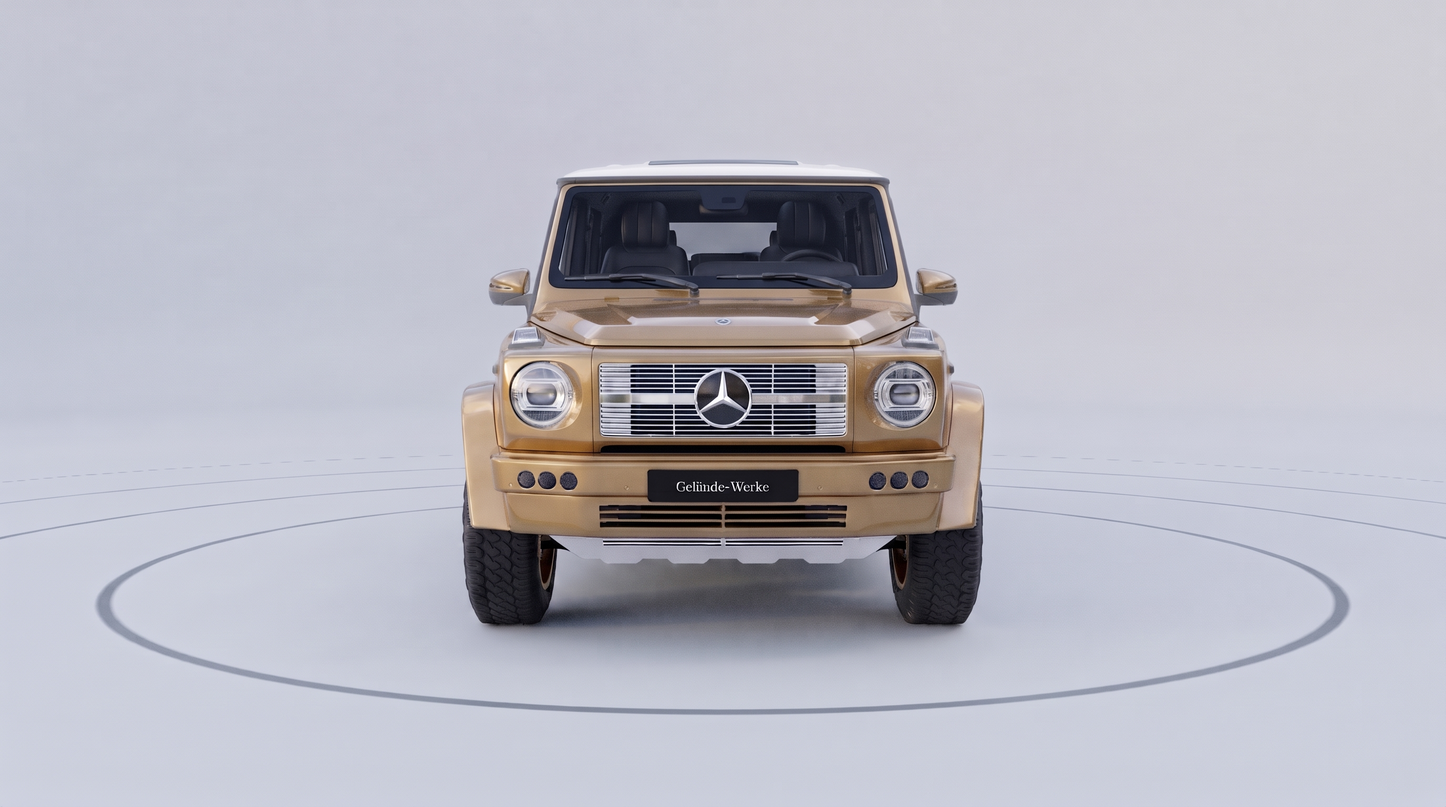
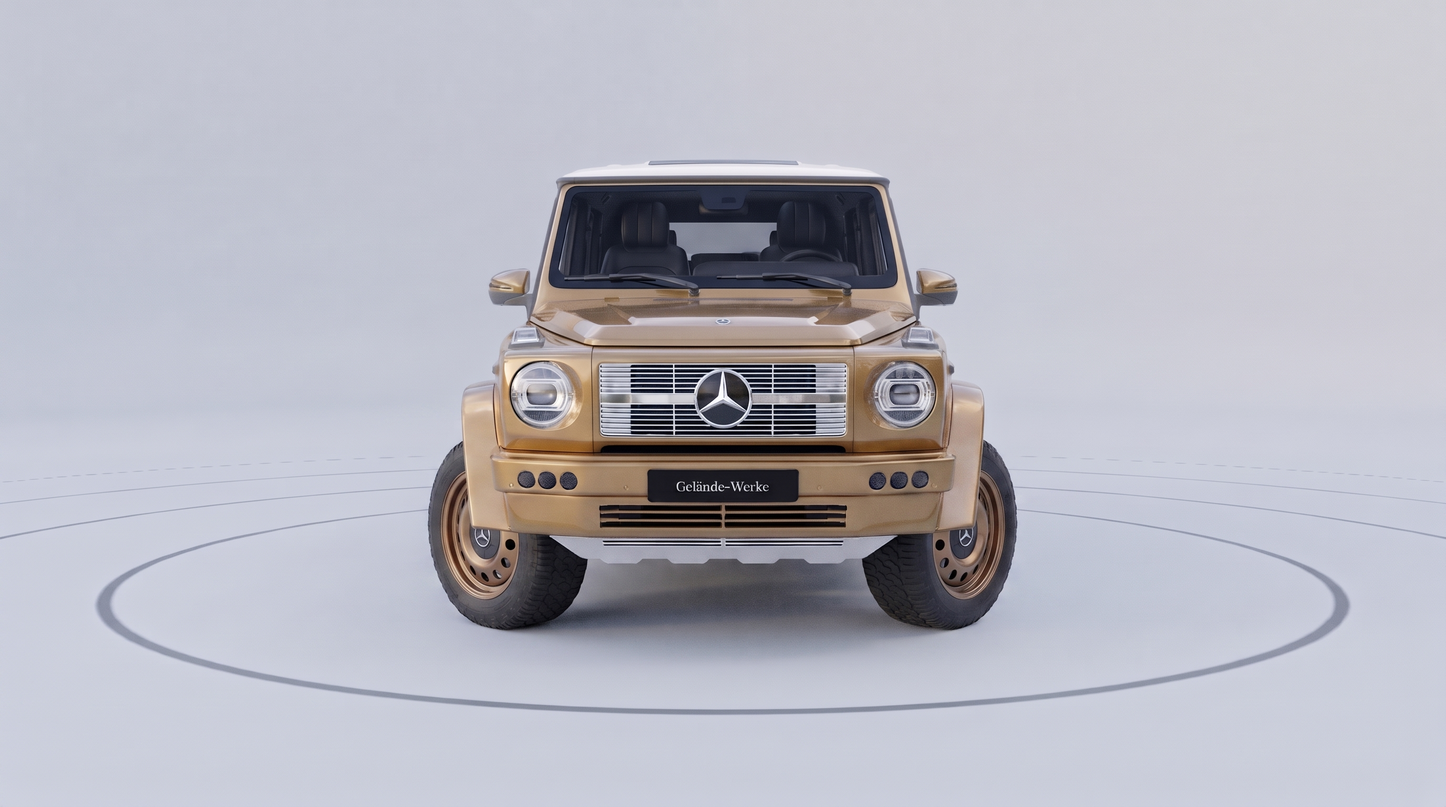
Regenerate Sahara, Rosso, and Bronze stills with correct RETRO bronze rims.
Tighter Gemini prompts keep the classic hole size and spacing; bump view still cache revision for browsers.

diff --git a/src/config/nature-scenes.ts b/src/config/nature-scenes.ts
@@ -23,7 +23,7 @@ export function isNatureStudio(id: string): id is NatureStudioId {
 /** Still captured from the live wheels camera in that studio. */
 /** Bump when the wheel photographs change, so a refresh does not keep the previous file. */
 const WHEEL_STILL_REV = "6";
-const VIEW_STILL_REV = "4";
+const VIEW_STILL_REV = "5";
 
 export function angleThumbSrc(camera: CameraId) {
   return `/renders/views/${camera}/gmanufaktur-retro-daylight.jpg?v=${VIEW_STILL_REV}`;
